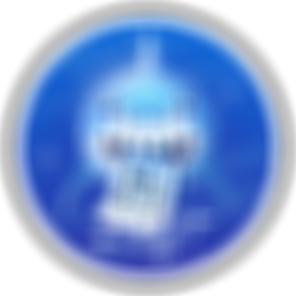
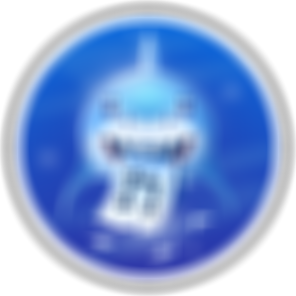
Used cs50 libary

diff --git a/app.py b/app.py
@@ -32,8 +32,14 @@
 
 # for i in range(11234567890):
 #     print(i)
+# img manipulation with PILLOW library
+# from PIL import Image,ImageFilter
+# before = Image.open("shark.png")
+# after = before.filter(ImageFilter.BoxBlur(9))
+# after.save("out.png")
 
-from PIL import Image,ImageFilter
-before = Image.open("shark.png")
-after = before.filter(ImageFilter.BoxBlur(12))
-after.save("out.png")
+# using cs50 package
+from cs50 import get_int
+x = get_int("x: ")
+y = get_int("y: ")
+print(x+y)
